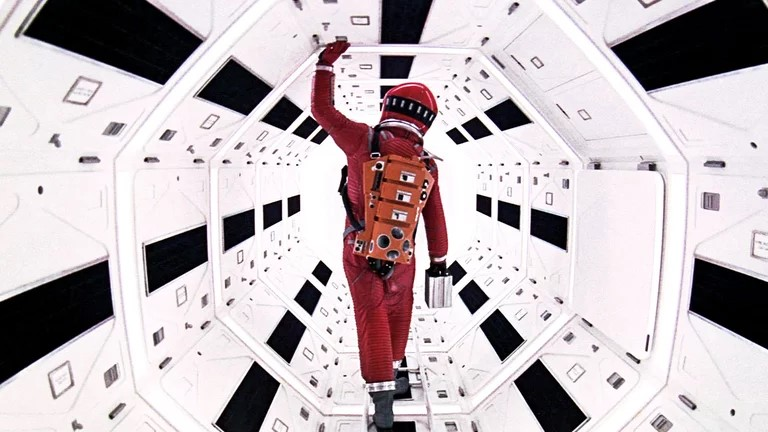
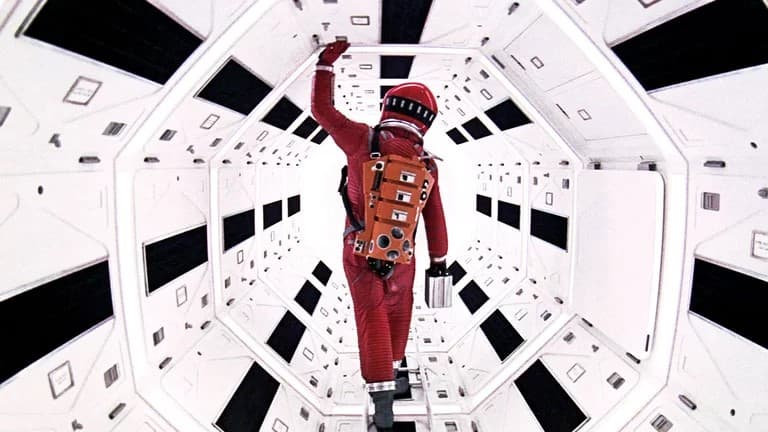
Optimised images to cut loading issues.

diff --git a/README.md b/README.md
@@ -105,6 +105,8 @@ The project I have decided to build is a portfolio for myself. As I do not have 
 - Git commit " Updated coming soon on confirmation.html. "
 - Changed code on confirmation.html for better look.
 - Git commit "  Changed code on confirmation.html for better look. "
+- Used to Squoosh to optimise all the images used on index.html and project.html
+- Git committed " Optimised images to cut loading issues. "
 
 
 ### Bugs/ Issues
